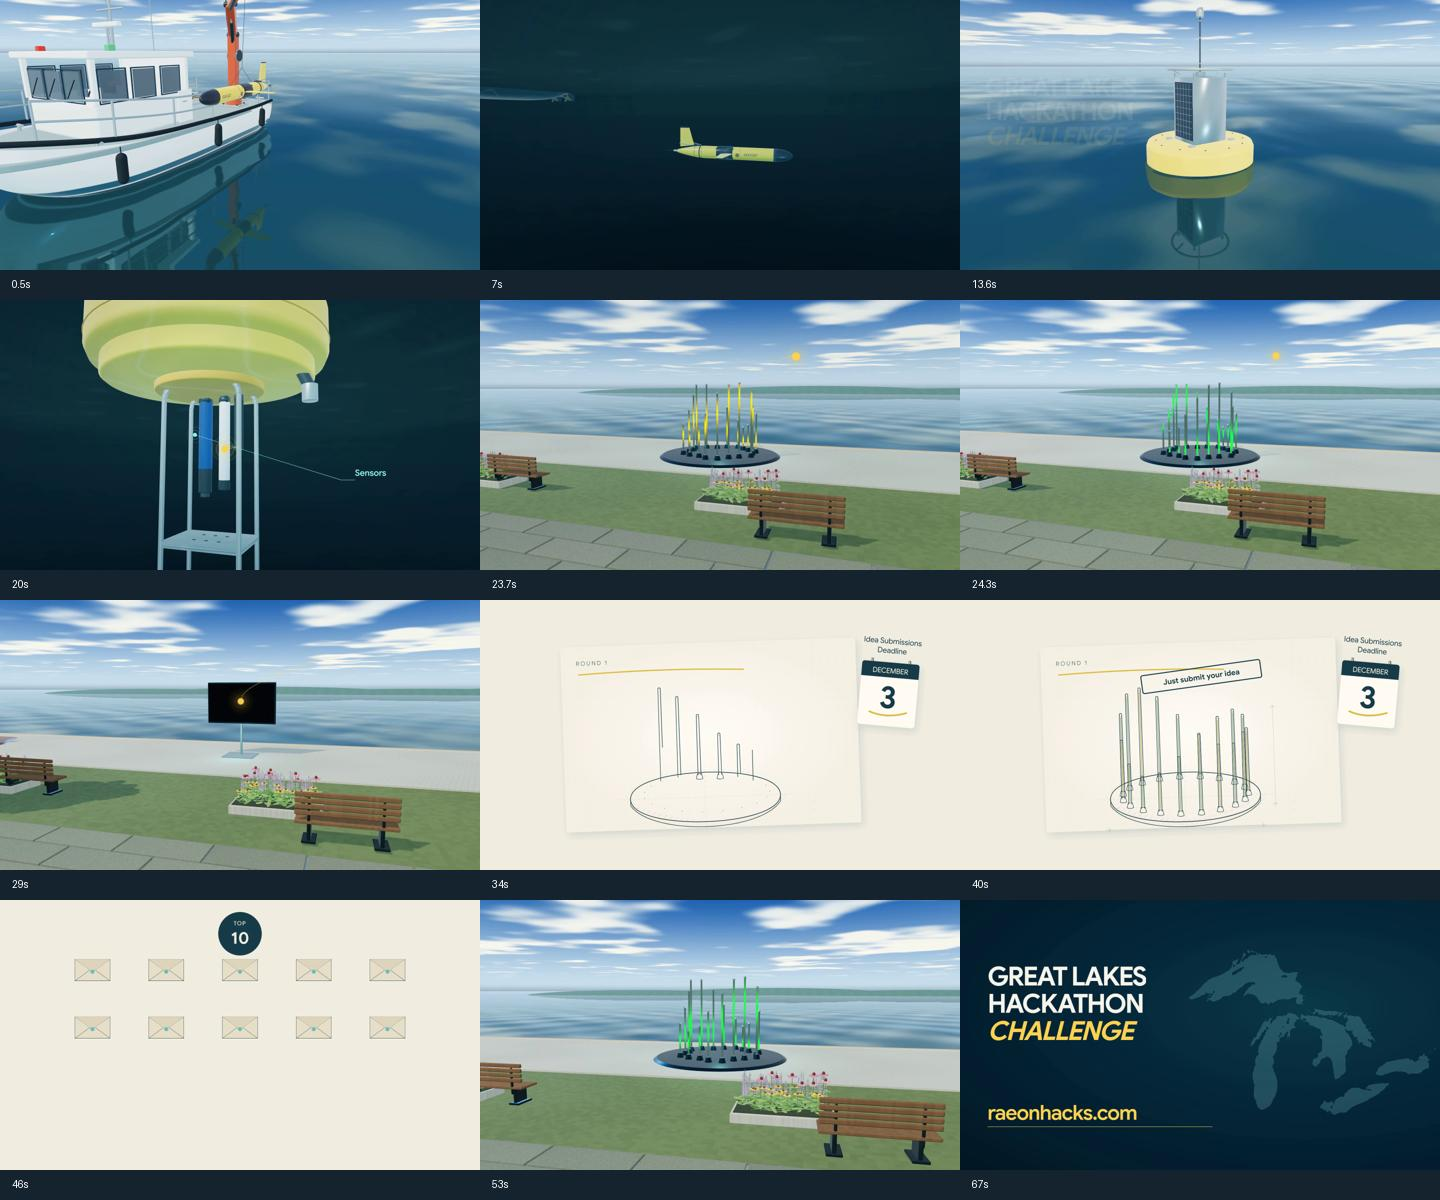
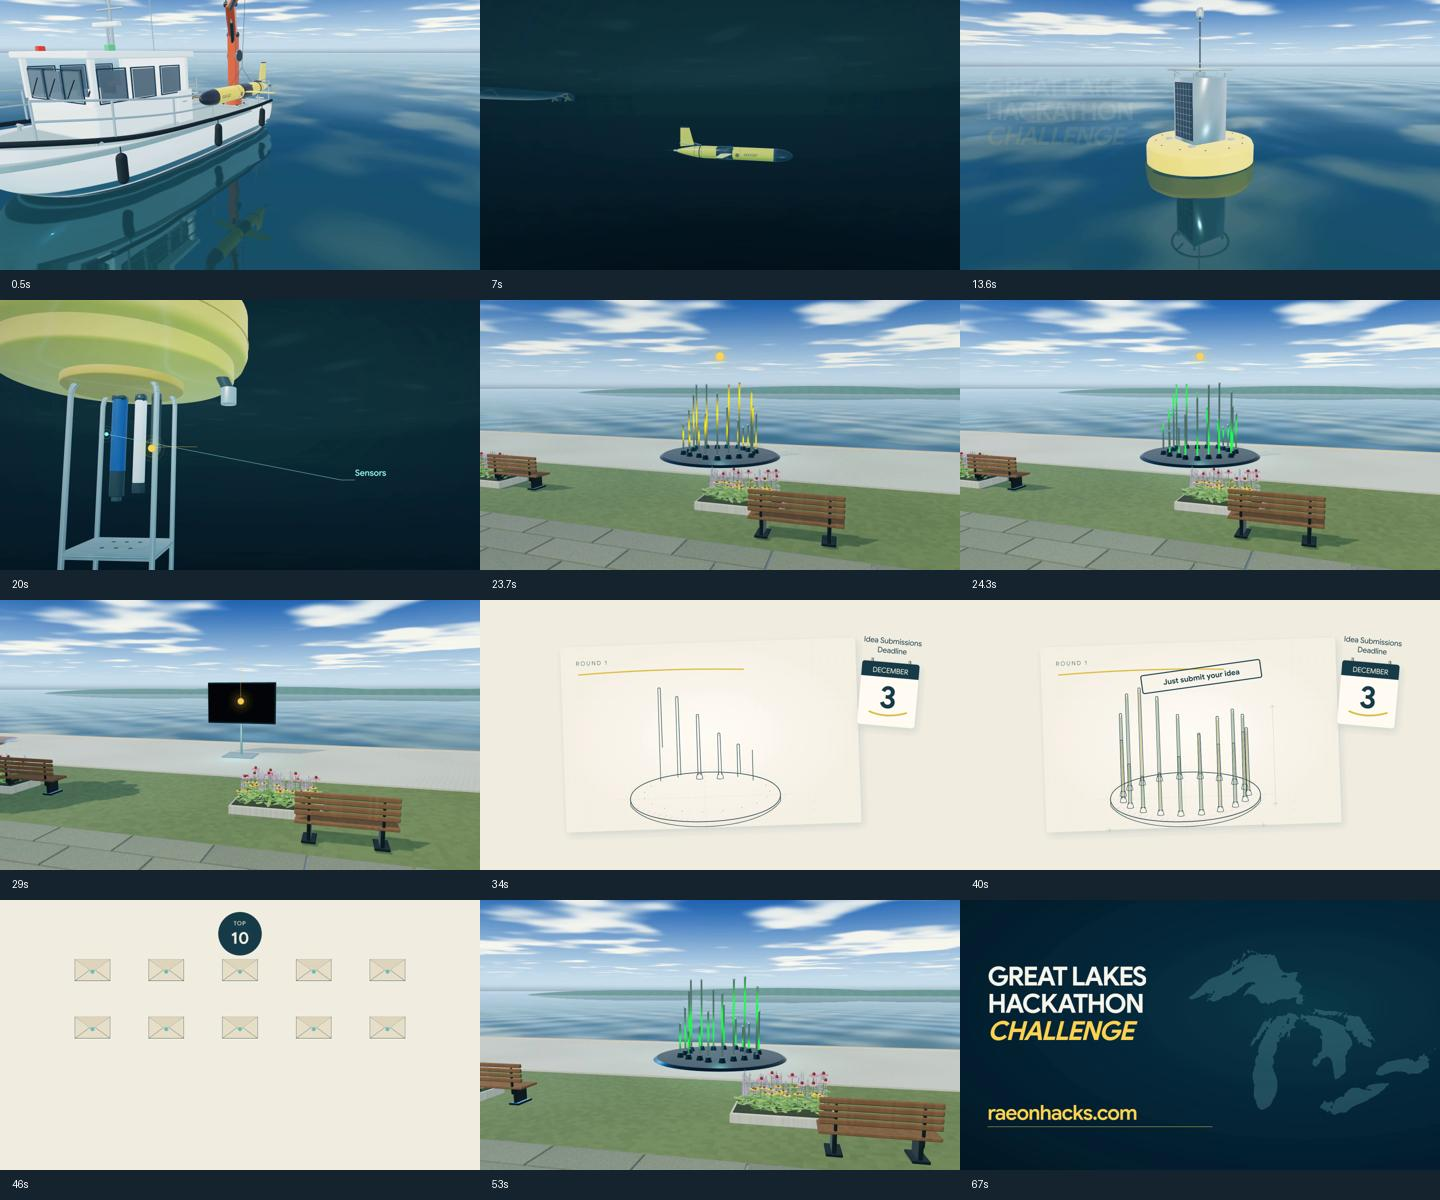
Level gold dot before reveal and centre it above displays

Changed region(s): [[0.0, 0.2467, 0.25, 0.4933]]

diff --git a/promo/src/rough-opening.jsx b/promo/src/rough-opening.jsx
@@ -7,6 +7,7 @@ import {createOpeningEnvironment} from './opening-environment';
 import {ramp} from './opening';
 import {openingPath,LAUNCH_BOAT_X,LAUNCH_GLIDER_X} from './rough-opening-path.mjs';
 import {productionOpeningPath} from './production-opening-path.mjs';
+import {revisedScienceView} from './gold-story-path.mjs';
 import {productionSciencePath} from './production-science-path.mjs';
 import {Line2} from 'three/addons/lines/Line2.js';
 import {LineGeometry} from 'three/addons/lines/LineGeometry.js';
@@ -102,7 +103,7 @@ export async function setup(canvas,science=false,annotationCanvas=null,productio
    const times=[0,1.65,3.8,5.65,6.7,8,9.1];
    camera.position.set(at(local,times,[-5.5,-4,-2.8,.9,1.9,3.5,5]),at(local,times,[2.8,1.7,-1.4,-2,-1.9,-1.8,-1.8]),at(local,times,[7.5,5.4,3.4,3.1,3.4,4,4]));
    camera.lookAt(at(local,times,[0,0,0,0,.5,2.4,5]),at(local,times,[.7,.15,-1.5,-1.7,-1.6,-1.5,-1.5]),0);
-   if(production){const view=productionSciencePath(local);camera.position.set(...view.camera);camera.lookAt(...view.target);}
+   if(production){const view=revision?revisedScienceView(f):productionSciencePath(local);camera.position.set(...view.camera);camera.lookAt(...view.target);}
    const pulsePosition=(v)=>production?new THREE.Vector3(...productionSciencePath(v).pulse):new THREE.Vector3(at(v,[5.5,6.3,7.3,9.1],[0,.2,2.3,6]),at(v,[5.5,6.3,7.3,9.1],[-1.7,-1.7,-1.4,-1.5]),at(v,[5.5,6.3,7.3,9.1],[0,.2,.4,0]));
    signal.visible=local>=5.5;signal.position.copy(pulsePosition(local));
    core.scale.setScalar(1+Math.sin(local*8)*.13);

diff --git a/NOW.md b/NOW.md
@@ -1,9 +1,9 @@
-# Active Initiative - GLHC-004 longer forward S-shaped swim
+# Active Initiative - GLHC-004 centred high display dot
 
 Status: complete, organizer review pending. Main8b4e7d9 fetched ancestor.
 
-Gold dot swims farther forward on flat-start/sigmoid-rise/level-finish path matching reference.364.36px travel,8.21x previous44.36px. Leading above-display screen position moved320px ahead to maintain continuous trajectory; TV approach eased over legacy85-125 instead of100-125, keeping entry cue. Current flowers/lighter trees/deadline-only calendar/corrected voiceover retained.
+Dot finishes rising before the display dissolve, holds constant high position at viewport centre above light/sound, then descends into TV on existing Be cue. Removed320px leading offset. Mild revised-only sensor framing pan preserves long forward swim and initial/final poses; sensor labels safe. Current flowers/lighter trees/deadline-only calendar/corrected narration retained.
 
-Verified full2022-frame1920x1080/30FPS67.4s export/decode and18 source-frame comparisons. Six focused S-rise frames plus12 full-cut moments visually inspected. Forward displacement364.36px vs prior44.36px (8.21x, exceeds2x minimum); motion stays monotonic forward/up and holds display height. Core join/trail history/TV endpoint errors0px; TV cue28.9667s retained. Final rendered core sample matches expected updated TV approach within0.814px. Corrected narration correlation0.999998689 with zero lag; no music/SFX. Diff check passed. Evidence long-forward-swim-review.jpg, long-swim-render-check.json, corrected-motion.json and corrected-narration-verification.json/review.jpg. No manual playback/listening/deployment claim.
+Verified full2022-frame1920x1080/30FPS67.4s export/decode and18 source-frame comparisons. Nine focused and12 full-cut moments visually inspected. Climb complete legacy270, before display reveal280; high-hold/centre/join/trail-history/TV endpoint errors0px in geometry checks. Rendered display core samples at0/30/80 within0.738px of[960,225.8845]. Sensor callouts stay within48px margins. Forward swim366.17px retains minimum2x requirement; TV cue28.9667s unchanged. Corrected audio correlation0.999998689, zero lag; no music/SFX. Diff check passed. Evidence centred-high-dot-review.jpg/render.json, corrected-motion.json and corrected-narration-verification.json/review.jpg. No manual listening/playback/deployment claim.
 
-Artifact: promo/out/glhc-long-forward-s-swim.mp4. Manifest promo/corrected-assembly.json. Next: organizer reviews full cut. Music/SFX deferred. Website/shared GLB/live unchanged.
+Artifact: promo/out/glhc-centred-high-dot.mp4. Manifest promo/corrected-assembly.json. Next: organizer full-cut review. Music/SFX deferred. Website/shared GLB/live unchanged.

diff --git a/LOG.md b/LOG.md
@@ -504,3 +504,8 @@ Production spacing48->20 units, transition intervals48 frames; peak camera trave
 ### 2026-11-01 - Extended forward S-shaped gold swim
 - Organizer requests at least twice previous forward distance and S-shaped rise matching attached sketch. New forward screen travel364.36px vs44.36px previously (8.21x), with flat approach, sigmoid climb and level finish. High display position continues320px ahead horizontally so the handoff does not snap back. TV approach begins earlier to retain a smooth descent into unchanged entry endpoint/cue. Current flowers/lighter trees/deadline-only calendar/corrected voiceover retained.
 - Verified full2022-frame1920x1080/30FPS67.4s export/decode and18 source-frame comparisons. Six focused S-rise frames plus12 full-cut moments visually inspected. Forward displacement364.36px vs prior44.36px (8.21x, exceeds2x minimum); motion stays monotonic forward/up and holds display height. Core join/trail history/TV endpoint errors0px; TV cue28.9667s retained. Final rendered core sample matches expected updated TV approach within0.814px. Corrected narration correlation0.999998689 with zero lag; no music/SFX. Diff check passed. Evidence long-forward-swim-review.jpg, long-swim-render-check.json, corrected-motion.json and corrected-narration-verification.json/review.jpg. No manual playback/listening/deployment claim. No website/live changes.
+
+
+### 2026-11-01 - Centred display dot and early level-off
+- Organizer requests dot levelled off before lights appear and centred above displays except when entering TV. Removed320px leading offset; viewport dot holds x960 and constant high y225.884 until TV approach. Climb completes legacy270, before display dissolve280. Mild revised-only sensor framing pan preserves long forward swim366.17px (still8.26x original44.36), with original camera start/end poses and sensor callouts within48px margins.
+- TV endpoint, cue and trail history unchanged; corrected voice/current flowers/lighter trees/deadline-only calendar retained. Verified full2022-frame1920x1080/30FPS67.4s export/decode and18 source-frame comparisons. Nine focused and12 full-cut moments visually inspected. Climb complete legacy270, before display reveal280; high-hold/centre/join/trail-history/TV endpoint errors0px in geometry checks. Rendered display core samples at0/30/80 within0.738px of[960,225.8845]. Sensor callouts stay within48px margins. Forward swim366.17px retains minimum2x requirement; TV cue28.9667s unchanged. Corrected audio correlation0.999998689, zero lag; no music/SFX. Diff check passed. Evidence centred-high-dot-review.jpg/render.json, corrected-motion.json and corrected-narration-verification.json/review.jpg. No manual listening/playback/deployment claim.

diff --git a/TASKS.md b/TASKS.md
@@ -151,3 +151,8 @@ Production spacing48->20 units, transition intervals48 frames; peak camera trave
 ### 2026-11-01 - Extended forward S-shaped gold swim
 - Organizer requests at least twice previous forward distance and S-shaped rise matching attached sketch. New forward screen travel364.36px vs44.36px previously (8.21x), with flat approach, sigmoid climb and level finish. High display position continues320px ahead horizontally so the handoff does not snap back. TV approach begins earlier to retain a smooth descent into unchanged entry endpoint/cue. Current flowers/lighter trees/deadline-only calendar/corrected voiceover retained.
 - Verified full2022-frame1920x1080/30FPS67.4s export/decode and18 source-frame comparisons. Six focused S-rise frames plus12 full-cut moments visually inspected. Forward displacement364.36px vs prior44.36px (8.21x, exceeds2x minimum); motion stays monotonic forward/up and holds display height. Core join/trail history/TV endpoint errors0px; TV cue28.9667s retained. Final rendered core sample matches expected updated TV approach within0.814px. Corrected narration correlation0.999998689 with zero lag; no music/SFX. Diff check passed. Evidence long-forward-swim-review.jpg, long-swim-render-check.json, corrected-motion.json and corrected-narration-verification.json/review.jpg. No manual playback/listening/deployment claim. No website/live changes.
+
+
+### 2026-11-01 - Centred display dot and early level-off
+- Organizer requests dot levelled off before lights appear and centred above displays except when entering TV. Removed320px leading offset; viewport dot holds x960 and constant high y225.884 until TV approach. Climb completes legacy270, before display dissolve280. Mild revised-only sensor framing pan preserves long forward swim366.17px (still8.26x original44.36), with original camera start/end poses and sensor callouts within48px margins.
+- TV endpoint, cue and trail history unchanged; corrected voice/current flowers/lighter trees/deadline-only calendar retained. Verified full2022-frame1920x1080/30FPS67.4s export/decode and18 source-frame comparisons. Nine focused and12 full-cut moments visually inspected. Climb complete legacy270, before display reveal280; high-hold/centre/join/trail-history/TV endpoint errors0px in geometry checks. Rendered display core samples at0/30/80 within0.738px of[960,225.8845]. Sensor callouts stay within48px margins. Forward swim366.17px retains minimum2x requirement; TV cue28.9667s unchanged. Corrected audio correlation0.999998689, zero lag; no music/SFX. Diff check passed. Evidence centred-high-dot-review.jpg/render.json, corrected-motion.json and corrected-narration-verification.json/review.jpg. No manual listening/playback/deployment claim.

diff --git a/promo/CORRECTED-NARRATION.md b/promo/CORRECTED-NARRATION.md
@@ -6,7 +6,7 @@ The organizer supplied ElevenLabs_2026-11-01T05_54_00_Ashley_pvc_sp100_s50_sb75_
 New audio67.3959375s; output2022 frames/67.4s at30FPS. Corrected scene boundaries:0,401,717,943,1335,1762,2022. Local automatic word timestamps in evidence/ashley-corrected-timing.json identify The Great Lakes13.38s, can experience23.90s, Be28.98s, Round1 31.44s, Round2 44.52s, Ready58.74s and URL instruction64.54s. Smooth monotonic frame remapping with natural endpoint speed (no added scene-boundary time stop) in src/corrected-timeline.json retains approved choreography and retimes major narration cues. Freeze supplies fractional legacy frames so geometry animation is evaluated smoothly rather than duplicating encoded frames.
 
 ## Gold pulse
-Revised-only travelling pulse is a screen-space graphic projected from scene cameras, with gold core/rings/trail. It leaves sensor view and swims substantially farther forward on an S-shaped climbing path and holds exactly the projected above-display starting height; its leading horizontal position continues into the waterfront scene. During the direct dissolve only one pulse is drawn. The old Three.js story pulse is disabled only for revision mode; sensor callout leaders remain.
+Revised-only travelling pulse is a screen-space graphic projected from scene cameras, with gold core/rings/trail. It leaves sensor view and swims substantially farther forward on an S-shaped climbing path and holds exactly the projected above-display starting height; it is centred above the light/sound displays, with the climb complete before their reveal. During the direct dissolve only one pulse is drawn. The old Three.js story pulse is disabled only for revision mode; sensor callout leaders remain.
 
 Display path stays above installations, then curves into the physical screen. TV_ENTRY_FRAME125 maps to corrected global frame869 (28.9667s), within one frame of Be28.98s. Entry equals projected LED centre. Gold entry flash resolves as the LED letter animation starts. The travelling pulse does not restart in closing. Small display rings retained. Opening CASH PRIZES and GET FEATURED AT TOURIST SPOTS overlays are invisible in revision mode. Calendar dates/sketch/folding/top10/resources/scenery retained.
 

diff --git a/PROJECT.md b/PROJECT.md
@@ -92,4 +92,4 @@ Promo film CTA correction (organizer2026-10-30): use raeonhacks.com, superseding
 
 Promo narration update (organizer2026-11-01): corrected Ashley MP3 is public/audio/ashley-corrected.mp3 for the revised film, including spoken.com. Music/SFX deferred. Revised film removes opening benefit-caption overlays; travelling dot/trail are gold, rise into above-display view and terminate in LED to trigger BE CREATIVE. Website copy/registration destinations remain separate. See promo/CORRECTED-NARRATION.md.
 
-Promo visual follow-up2026-11-01: extended forward gold-pulse swim with an S-shaped climb, holding the incoming waterfront height, lighter green trees, mixed pink/yellow/purple flower beds instead of pointed grasses. Round1 film keeps the December3 deadline calendar only; organizer removed the opening-date calendar.
+Promo visual follow-up2026-11-01: extended forward gold-pulse swim with an S-shaped climb, levelling off before the waterfront reveal and staying centred above the light/sound displays, lighter green trees, mixed pink/yellow/purple flower beds instead of pointed grasses. Round1 film keeps the December3 deadline calendar only; organizer removed the opening-date calendar.
